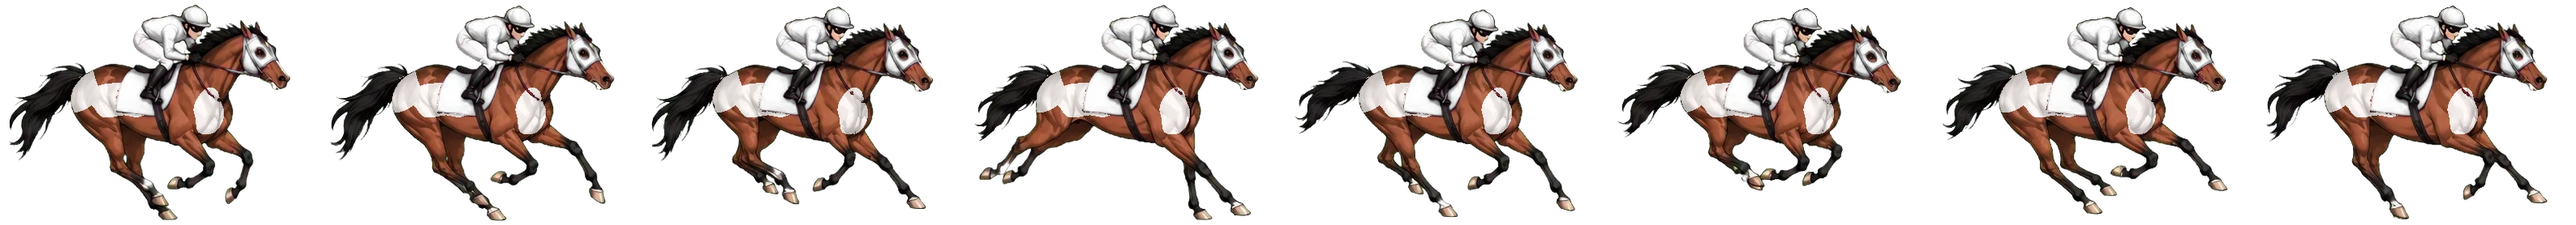
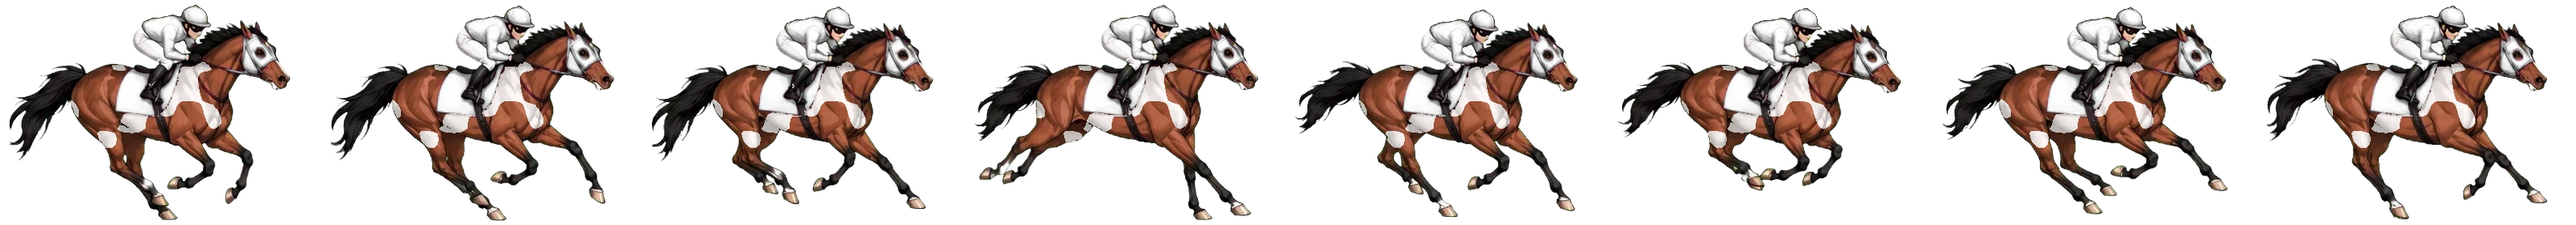
Loja: seção Cavalos na vitrine e 7 pelagens novas (seção 76)

diff --git a/src/features/loja/LojaView.tsx b/src/features/loja/LojaView.tsx
@@ -24,6 +24,7 @@ import { comprar, equipar, useLoja, useMinhaMochila, usar, useRaros } from "./lo
 import { MercadoAba } from "./MercadoAba";
 import { Haras } from "@/features/corrida/Haras";
 import { DesenhoCavalo } from "@/features/corrida/Cavalo";
+import { MAX_CAVALOS, NOME_PELAGEM, PELAGENS, PRECO_CAVALO, type Pelagem } from "@/features/corrida/corridaRegras";
 
 const FOCO: Partial<Record<ItemLoja["espaco"], "parede" | "chao" | "mesa" | "poster" | "cadeira" | "planta">> = {
   parede: "parede",
@@ -294,6 +295,12 @@ export function LojaView({ hidden }: { hidden: boolean }) {
   const minhas = useMinhaMochila();
   const [aba, setAba] = useState<"vitrine" | "mochila" | "mercado" | "haras">("vitrine");
   const [filtro, setFiltro] = useState("tudo");
+  /* a pelagem escolhida na seção Cavalos, que abre o Haras com ela marcada */
+  const [pelagemHaras, setPelagemHaras] = useState<Pelagem | undefined>(undefined);
+  const comprarCavalo = (p: Pelagem) => {
+    setPelagemHaras(p);
+    setAba("haras");
+  };
   const [detalhe, setDetalhe] = useState<string | null>(null);
   const qtd = (id: string) => minhas.find((l) => l.itemId === id)?.qtd ?? 0;
   const eq = (id: string) => !!minhas.find((l) => l.itemId === id)?.equipado;
@@ -333,27 +340,38 @@ export function LojaView({ hidden }: { hidden: boolean }) {
           Haras
         </button>
       </div>
-      {itens && aba === "vitrine" && filtro === "tudo" && (
-        <button type="button" className="block loja-destaque" onClick={() => setAba("haras")}>
-          <span className="loja-destaque-cavalo" aria-hidden="true">
-            <DesenhoCavalo pelagem="alazao" raia={0} />
-          </span>
-          <span>
-            <small>Novo</small>
-            <b>Haras: compre e treine o seu cavalo de corrida</b>
-            <span className="hint">Inscreva no páreo do Cassino, ganhe pelo pódio e aposte com a turma.</span>
-          </span>
-        </button>
-      )}
       {!itens && <p className="hint">Abrindo a loja…</p>}
       {itens && aba === "vitrine" && (
         <div className="loja-filtros" role="radiogroup" aria-label="Filtrar a vitrine">
-          {[{ id: "tudo", curto: "Tudo" }, ...grupos].map((g) => (
+          {[{ id: "tudo", curto: "Tudo" }, { id: "cavalos", curto: "Cavalos" }, ...grupos].map((g) => (
             <button key={g.id} type="button" role="radio" aria-checked={filtro === g.id} className={filtro === g.id ? "on" : undefined} onClick={() => setFiltro(g.id)}>
               {g.curto}
             </button>
           ))}
         </div>
+      )}
+      {itens && aba === "vitrine" && (filtro === "tudo" || filtro === "cavalos") && (
+        <section className="loja-grupo" aria-labelledby="loja-cavalos">
+          <h2 id="loja-cavalos">Cavalos de corrida</h2>
+          <p className="hint loja-grupo-dica">
+            {formatarMoedas(PRECO_CAVALO)} moedas cada, até {MAX_CAVALOS} por pessoa. Escolha a pelagem, dê o nome no Haras, treine e inscreva no páreo do Cassino.
+          </p>
+          <div className="loja-grade">
+            {PELAGENS.map((p) => (
+              <article key={p} className="block loja-item rar-lendaria loja-cavalo">
+                <button type="button" className="loja-previa" aria-label={`Comprar um cavalo ${NOME_PELAGEM[p]}`} onClick={() => comprarCavalo(p)}>
+                  <DesenhoCavalo pelagem={p} semJoquei correndo />
+                  <span className="loja-rar">Cavalo</span>
+                </button>
+                <h3>{NOME_PELAGEM[p]}</h3>
+                <p className="hint">Potro de corrida, começa com 40 em tudo.</p>
+                <button type="button" className="btn sm" onClick={() => comprarCavalo(p)}>
+                  Comprar · {formatarMoedas(PRECO_CAVALO)}
+                </button>
+              </article>
+            ))}
+          </div>
+        </section>
       )}
       {itens && aba === "vitrine" &&
         grupos
@@ -370,7 +388,7 @@ export function LojaView({ hidden }: { hidden: boolean }) {
           ))}
       {aberto && <ItemDetalhe it={aberto} tenho={qtd(aberto.id)} equipado={eq(aberto.id)} saldo={saldo} fechar={() => setDetalhe(null)} />}
       {itens && aba === "mercado" && <MercadoAba />}
-      {aba === "haras" && <Haras />}
+      {aba === "haras" && <Haras pelagem={pelagemHaras} />}
       {itens && aba === "mochila" && (
         <section className="block">
           <MochilaLista />

diff --git a/src/styles/42-corrida.css b/src/styles/42-corrida.css
@@ -15,6 +15,13 @@
 .cav-pampa{--cav-corpo:#EDE7DC; --cav-esc:#D6CEC0; --cav-crina:#3A2A18; --cav-mancha:#6B4428}
 .cav-rosilho{--cav-corpo:#A47F78; --cav-esc:#8A6862; --cav-crina:#4A3530}
 .cav-branco{--cav-corpo:#F2F0EA; --cav-esc:#D8D4CA; --cav-crina:#CFCBC0}
+.cav-tostado{--cav-corpo:#5E2A1A; --cav-crina:#1E120C}
+.cav-palomino{--cav-corpo:#E2B865; --cav-crina:#F3E6C4}
+.cav-lobuno{--cav-corpo:#8C8273; --cav-crina:#1E1C1A}
+.cav-malhado{--cav-corpo:#2E2A27; --cav-crina:#F2EEE6}
+.cav-apaloosa{--cav-corpo:#EEECE6; --cav-crina:#4A3426}
+.cav-mouro{--cav-corpo:#6E7884; --cav-crina:#1E1E22}
+.cav-cremelo{--cav-corpo:#EADFC6; --cav-crina:#F6EFE0}
 .raia-1{--seda:#C8322B; --seda-tx:#FFFFFF}
 .raia-2{--seda:#F4F1EA; --seda-tx:#1E1E1E}
 .raia-3{--seda:#2F5DA8; --seda-tx:#FFFFFF}
@@ -234,11 +241,7 @@
   .haras-placar{grid-column:2 / -1}
 }
 
-/* o destaque do Haras na vitrine */
-.loja-destaque{display:flex;gap:14px;align-items:center;width:100%;text-align:left;cursor:pointer;border:1px solid color-mix(in srgb,var(--accent) 45%,var(--line));
-  background:linear-gradient(100deg,color-mix(in srgb,var(--accent) 16%,var(--surface)),var(--surface));color:var(--ink)}
-.loja-destaque:hover{border-color:var(--accent)}
-.loja-destaque-cavalo{width:96px;flex:0 0 auto}
-.loja-destaque > span:last-child{display:flex;flex-direction:column;gap:2px}
-.loja-destaque small{font:700 11px var(--display);color:var(--accent);text-transform:uppercase;letter-spacing:.06em}
-.loja-destaque b{font:600 15px var(--body)}
+/* a seção Cavalos na vitrine da loja: o cavalo galopando na prévia do cartão */
+.loja-cavalo .loja-previa .cav{width:94%}
+.loja-grupo-dica{margin:-4px 0 10px}
+

diff --git a/src/features/corrida/corridaRegras.ts b/src/features/corrida/corridaRegras.ts
@@ -29,8 +29,25 @@ export type Pista = "leve" | "pesada";
 export const NOME_DISTANCIA: Readonly<Record<Distancia, string>> = { 1000: "1.000 m · tiro curto", 1600: "1.600 m · milha", 2400: "2.400 m · fundo" };
 export const NOME_PISTA: Readonly<Record<Pista, string>> = { leve: "Pista leve", pesada: "Pista pesada" };
 
-/** As pelagens (a cor do cavalo; as cores ficam em --cav-* no 42-corrida.css). */
-export const PELAGENS = ["castanho", "alazao", "tordilho", "preto", "baio", "pampa", "rosilho", "branco"] as const;
+/** As pelagens (a cor do cavalo: a arte é public/arte/corrida/cavalo-<pelagem>.webp e a bolinha do Haras usa --cav-* do 42-corrida.css;
+ * as 7 depois do branco vieram na seção 76, a mesma lista do check de cavalos.pelagem e do cavalo_comprar). */
+export const PELAGENS = [
+  "castanho",
+  "alazao",
+  "tostado",
+  "tordilho",
+  "preto",
+  "baio",
+  "palomino",
+  "lobuno",
+  "pampa",
+  "malhado",
+  "apaloosa",
+  "rosilho",
+  "mouro",
+  "cremelo",
+  "branco",
+] as const;
 export type Pelagem = (typeof PELAGENS)[number];
 export const NOME_PELAGEM: Readonly<Record<Pelagem, string>> = {
   castanho: "Castanho",
@@ -41,6 +58,13 @@ export const NOME_PELAGEM: Readonly<Record<Pelagem, string>> = {
   pampa: "Pampa",
   rosilho: "Rosilho",
   branco: "Branco",
+  tostado: "Tostado",
+  palomino: "Palomino",
+  lobuno: "Lobuno",
+  malhado: "Malhado",
+  apaloosa: "Apaloosa",
+  mouro: "Mouro",
+  cremelo: "Cremelo",
 };
 export const ehPelagem = (x: unknown): x is Pelagem => typeof x === "string" && (PELAGENS as readonly string[]).includes(x);
 

diff --git a/src/features/corrida/Haras.tsx b/src/features/corrida/Haras.tsx
@@ -99,9 +99,9 @@ function CartaoCavalo({ c }: { c: Cavalo }) {
   );
 }
 
-function ComprarCavalo() {
+function ComprarCavalo({ inicial }: { inicial?: Pelagem }) {
   const [nome, setNome] = useState("");
-  const [pelagem, setPelagem] = useState<Pelagem>("castanho");
+  const [pelagem, setPelagem] = useState<Pelagem>(inicial ?? "castanho");
   const { sure, pedir } = useSure();
   const ocupado = useCavalos((s) => s.ocupado);
   const saldo = useCarteira((s) => s.carteira?.saldo ?? null);
@@ -143,7 +143,8 @@ function ComprarCavalo() {
   );
 }
 
-export function Haras() {
+/** `pelagem`: a cor escolhida na vitrine da loja (seção Cavalos), que já vem marcada na compra. */
+export function Haras({ pelagem }: { pelagem?: Pelagem } = {}) {
   const todos = useCavalos((s) => s.todos);
   const myUid = useApp((s) => s.myUid);
   const friends = useApp((s) => s.friends);
@@ -171,7 +172,7 @@ export function Haras() {
       {meus.map((c) => (
         <CartaoCavalo key={c.id} c={c} />
       ))}
-      {todos && meus.length < MAX_CAVALOS && <ComprarCavalo />}
+      {todos && meus.length < MAX_CAVALOS && <ComprarCavalo key={pelagem} inicial={pelagem} />}
       {ranking.length > 0 && (
         <section className="block haras-ranking">
           <h3>Ranking do hipódromo</h3>

diff --git a/src/lib/dados/changelog.ts b/src/lib/dados/changelog.ts
@@ -951,6 +951,8 @@ export const CHANGELOG: EntradaLog[] = [
       "Cavalos novos desenhados de verdade, galopando, com o jóquei e o número na cor da raia, nas 8 pelagens (no Haras também)",
       "Na corrida, o programa do páreo mostra cada cavalo com as últimas chegadas e a força, e o bilhete fica do lado com as fichas e quanto a aposta paga",
       "As fichas de aposta voltaram a ter cor fora da roleta",
+      "Na Loja, os cavalos ganharam a seção Cavalos na vitrine, com um cartão para cada pelagem",
+      "7 pelagens novas para o seu cavalo: tostado, palomino, lobuno, malhado, apaloosa, mouro e cremelo",
     ],
   },
 ];

diff --git a/scripts/pelagens-cavalo.py b/scripts/pelagens-cavalo.py
@@ -4,11 +4,12 @@ trocando só a cor do pelo (os tons marrons): crina, patas pretas, jóquei e sed
 fora pela posição (o pano da sela está no mesmo ponto em todos os quadros). O pampa ganha manchas brancas no corpo.
 Uma folha gerada de verdade para a pelagem (scripts/importar-cavalo.py) fica melhor e substitui esta.
 
-Uso: python3 scripts/pelagens-cavalo.py
+Uso: python3 scripts/pelagens-cavalo.py [pelagem ...]   (sem nada, faz todas)
 """
 import colorsys
 import math
 import os
+import sys
 from PIL import Image
 
 AQUI = os.path.dirname(os.path.abspath(__file__))
@@ -23,7 +24,19 @@ PELAGENS = {
     "tordilho": (None, 0.04, lambda v: min(1, 0.5 + v * 0.62)),
     "branco": (None, 0.05, lambda v: min(1, 0.8 + v * 0.26)),
     "rosilho": (8, 0.5, lambda v: min(1, 0.36 + v * 0.62)),
+    # as 7 de 05/11/2026 (seção 76)
+    "tostado": (11, 1.05, lambda v: v * 0.66),
+    "palomino": (41, 0.8, lambda v: min(1, v * 1.38 + 0.14)),
+    "lobuno": (30, 0.2, lambda v: min(1, 0.26 + v * 0.55)),
+    "cremelo": (40, 0.2, lambda v: min(1, 0.72 + v * 0.3)),
+    "mouro": (215, 0.12, lambda v: min(1, 0.2 + v * 0.55)),
+    "malhado": (None, 0.3, lambda v: v * 0.36),
+    "apaloosa": (None, 0.05, lambda v: min(1, 0.78 + v * 0.26)),
 }
+# crina, rabo e canelas claros (as outras ficam pretas): a cor (r, g, b) para o escuro dessas partes
+CRINA_CLARA = {"palomino": (238, 220, 176), "cremelo": (242, 232, 210)}
+# manchas brancas por cima da cor do corpo
+MANCHAS = {"pampa", "malhado"}
 
 
 def pelo(r, g, b, x, y, claro=False):
@@ -33,13 +46,24 @@ def pelo(r, g, b, x, y, claro=False):
     return h, s, v
 
 
+def ruido(x, y, sem):
+    """Um ruído suave (soma de ondas) para as manchas terem borda irregular, sempre igual no mesmo ponto do corpo."""
+    return (math.sin(x * 0.045 + sem) * math.cos(y * 0.06 - sem * 0.7) + 0.6 * math.sin((x + y) * 0.09 + sem * 1.3)
+            + 0.35 * math.cos((x - y) * 0.16 + sem * 2.1))
+
+
 def mancha(x, y):
-    """Manchas do pampa, presas ao corpo (coordenadas do quadro)."""
-    blobs = ((150, 124, 40, 22), (98, 110, 22, 30), (258, 140, 18, 30))
-    for cx, cy, rx, ry in blobs:
-        d = ((x - cx) / rx) ** 2 + ((y - cy) / ry) ** 2 + 0.25 * math.sin(x * 0.13 + y * 0.07) * math.cos(y * 0.11)
-        if d < 1: return True
-    return False
+    """Manchas brancas grandes e irregulares do pampa e do malhado, no corpo e na anca (coordenadas do quadro)."""
+    if not (60 <= x <= 290 and 60 <= y <= 185): return False
+    # perto da borda da área a mancha precisa de mais ruído: ela some aos poucos, sem corte reto
+    d = min(x - 60, 290 - x, y - 60, 185 - y)
+    return ruido(x * 0.7 + 40, y * 0.7, 2.3) > 0.25 + max(0, (26 - d) / 26) * 1.6
+
+
+def pinta(x, y):
+    """As pintas do apaloosa: manta clara na anca com pintas escuras de tamanhos diferentes."""
+    if not (55 <= x <= 200 and 78 <= y <= 180): return False
+    return ruido(x * 2.6, y * 2.6, 0.4) > 1.15
 
 
 def fazer(nome, base):
@@ -48,12 +72,21 @@ def fazer(nome, base):
         for x in range(W):
             r, g, b, a = px[x, y]
             if a == 0: continue
-            hsv = pelo(r, g, b, x % QW, y, nome in ('tordilho', 'branco', 'rosilho', 'pampa'))
+            if nome in CRINA_CLARA and crina_ou_canela(x % QW, y):
+                h, s, v = colorsys.rgb_to_hsv(r / 255, g / 255, b / 255)
+                if v < 0.42 and s < 0.5:
+                    cr, cg, cb = CRINA_CLARA[nome]; t = 0.45 + v * 1.3
+                    px[x, y] = (min(255, round(cr * t)), min(255, round(cg * t)), min(255, round(cb * t)), a)
+                    continue
+            hsv = pelo(r, g, b, x % QW, y, nome in ('tordilho', 'branco', 'rosilho', 'pampa', 'apaloosa', 'cremelo', 'palomino'))
             if not hsv: continue
             h, s, v = hsv
-            if nome == "pampa":
-                if not mancha(x % QW, y): continue
+            if nome in MANCHAS and mancha(x % QW, y):
                 nh, ns, nv = h, 0.04, min(1, 0.6 + v * 0.55)
+            elif nome == "pampa":
+                continue
+            elif nome == "apaloosa" and pinta(x % QW, y):
+                nh, ns, nv = 0.07, 0.35, 0.12 + v * 0.3
             else:
                 mh, ms, fv = PELAGENS[nome]
                 nh = h if mh is None else mh / 360 + (h - 25 / 360) * 0.4
@@ -66,5 +99,6 @@ def fazer(nome, base):
 
 if __name__ == "__main__":
     base = Image.open(os.path.join(PASTA, "cavalo-castanho.webp")).convert("RGBA")
-    for n in list(PELAGENS) + ["pampa"]:
+    so = [a for a in sys.argv[1:] if not a.startswith("-")]
+    for n in so or (list(PELAGENS) + ["pampa"]):
         fazer(n, base)

diff --git a/CLAUDE.md b/CLAUDE.md
@@ -326,7 +326,7 @@ src/
                        dos cavalos; letreiro da fase, placar ao vivo e mapa) e camera3d.ts (as contas da cena: altura e tamanho de cada raia,
                        a câmera que segue o líder; puro e testado; não pode se chamar pista3d.ts por causa do Windows), Corrida.tsx (o jogo
                        `corrida` do Cassino: placa do páreo, pista, pódio, o programa do páreo com um cartão por cavalo e o bilhete ao lado,
-                       inscrição, últimos vencedores) e Haras.tsx (a aba Haras da loja: comprar, treinar, ranking do hipódromo). As artes vêm
+                       inscrição, últimos vencedores) e Haras.tsx (a aba Haras da loja: comprar, treinar, ranking do hipódromo; abre com a pelagem escolhida na seção Cavalos da vitrine, que mostra um cartão por pelagem). As 15 pelagens (seção 76 acrescentou tostado, palomino, lobuno, malhado, apaloosa, mouro e cremelo) estão em `PELAGENS` e no check de `cavalos.pelagem`/`cavalo_comprar`: cor nova muda os três e ganha a arte. As artes vêm
                        da ferramenta de imagem com fundo verde #00FF00 e a seda em magenta: `scripts/importar-cavalo.py <folha> <pelagem>`
                        (recorta os 8 quadros, tira o verde e o branco preso entre as pernas, espelha e alinha pelo pano), `scripts/pelagens-cavalo.py`
                        (as outras pelagens a partir da castanha) e `scripts/importar-cenario.py <folha>` (fundo, pista, cerca, poste e portão)
